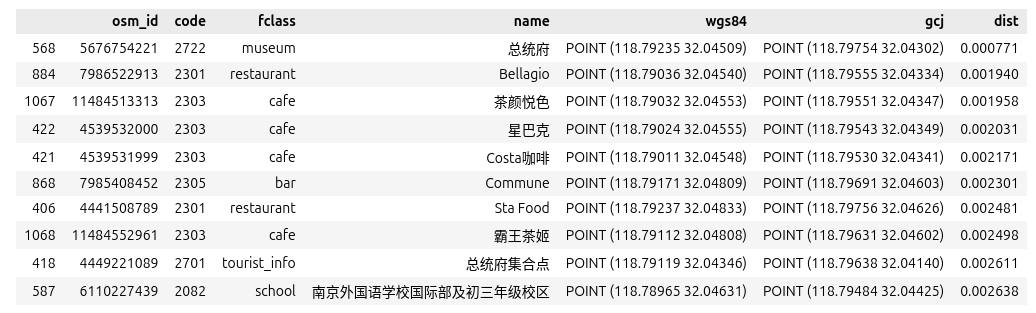
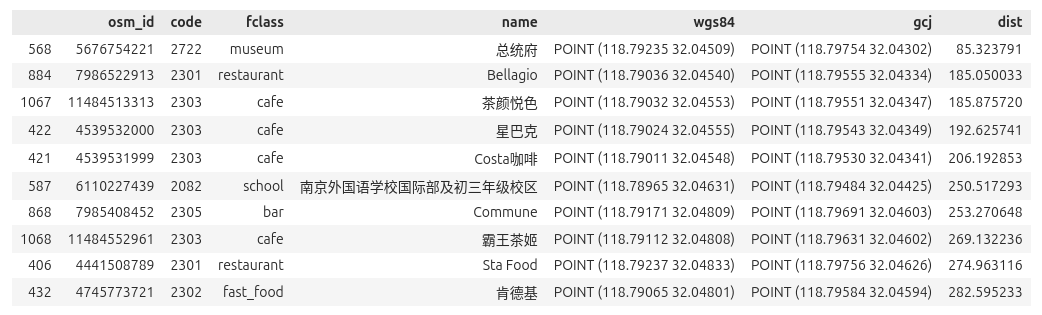
set POI distance unit is meters

diff --git a/geopi/geopi.py b/geopi/geopi.py
@@ -1,6 +1,7 @@
 import geopandas as gpd
 from shapely.geometry import shape, Point
 from coord_convert.transform import gcj2wgs, wgs2gcj
+from geopy.distance import geodesic
 import pyproj
 import json
 import time
@@ -114,8 +115,10 @@ class GeoPi:
         gdf = gdf.rename(columns={'geometry': 'wgs84'})
         gdf['gcj'] = gdf.apply(transform_geometry, axis=1)
 
-        pt = Point(wgs_lng, wgs_lat)
-        gdf['dist'] = gdf.wgs84.distance(pt)
+        # 计算位置点距离每个POI的距离
+        #pt = Point(wgs_lng, wgs_lat)
+        #gdf['dist'] = gdf.wgs84.distance(pt) * 10000
+        gdf['dist'] = gdf.wgs84.apply(lambda geom: geodesic((wgs_lat, wgs_lng), (geom.y, geom.x)).meters)
         return gdf.nsmallest(topk, 'dist')
 
 if __name__ == '__main__':

diff --git a/setup.py b/setup.py
@@ -2,7 +2,7 @@ import setuptools
 
 setuptools.setup(
     name="geopi",
-    version="0.1.2",
+    version="0.1.3",
     author="author",
     author_email="author@example.com",
     description="A small example package",

diff --git a/README.md b/README.md
@@ -119,7 +119,7 @@ ret = geopi.search_nearest_poi(lat, lng, topk=10)
 
 ```
 
-输出附近POI数据，fclass为POI类型，name为POI名称，wgs84和gcj为POI在不同坐标系的坐标点,dist为距离查询位置点的距离：
+输出附近POI数据，fclass为POI类型，name为POI名称，wgs84和gcj为POI在不同坐标系的坐标点,dist为距离查询位置点的距离，距离单位为米(Meters)：
 
 ![pois](https://raw.githubusercontent.com/KaffeeCat/geopi/main/images/pois.png)
 
